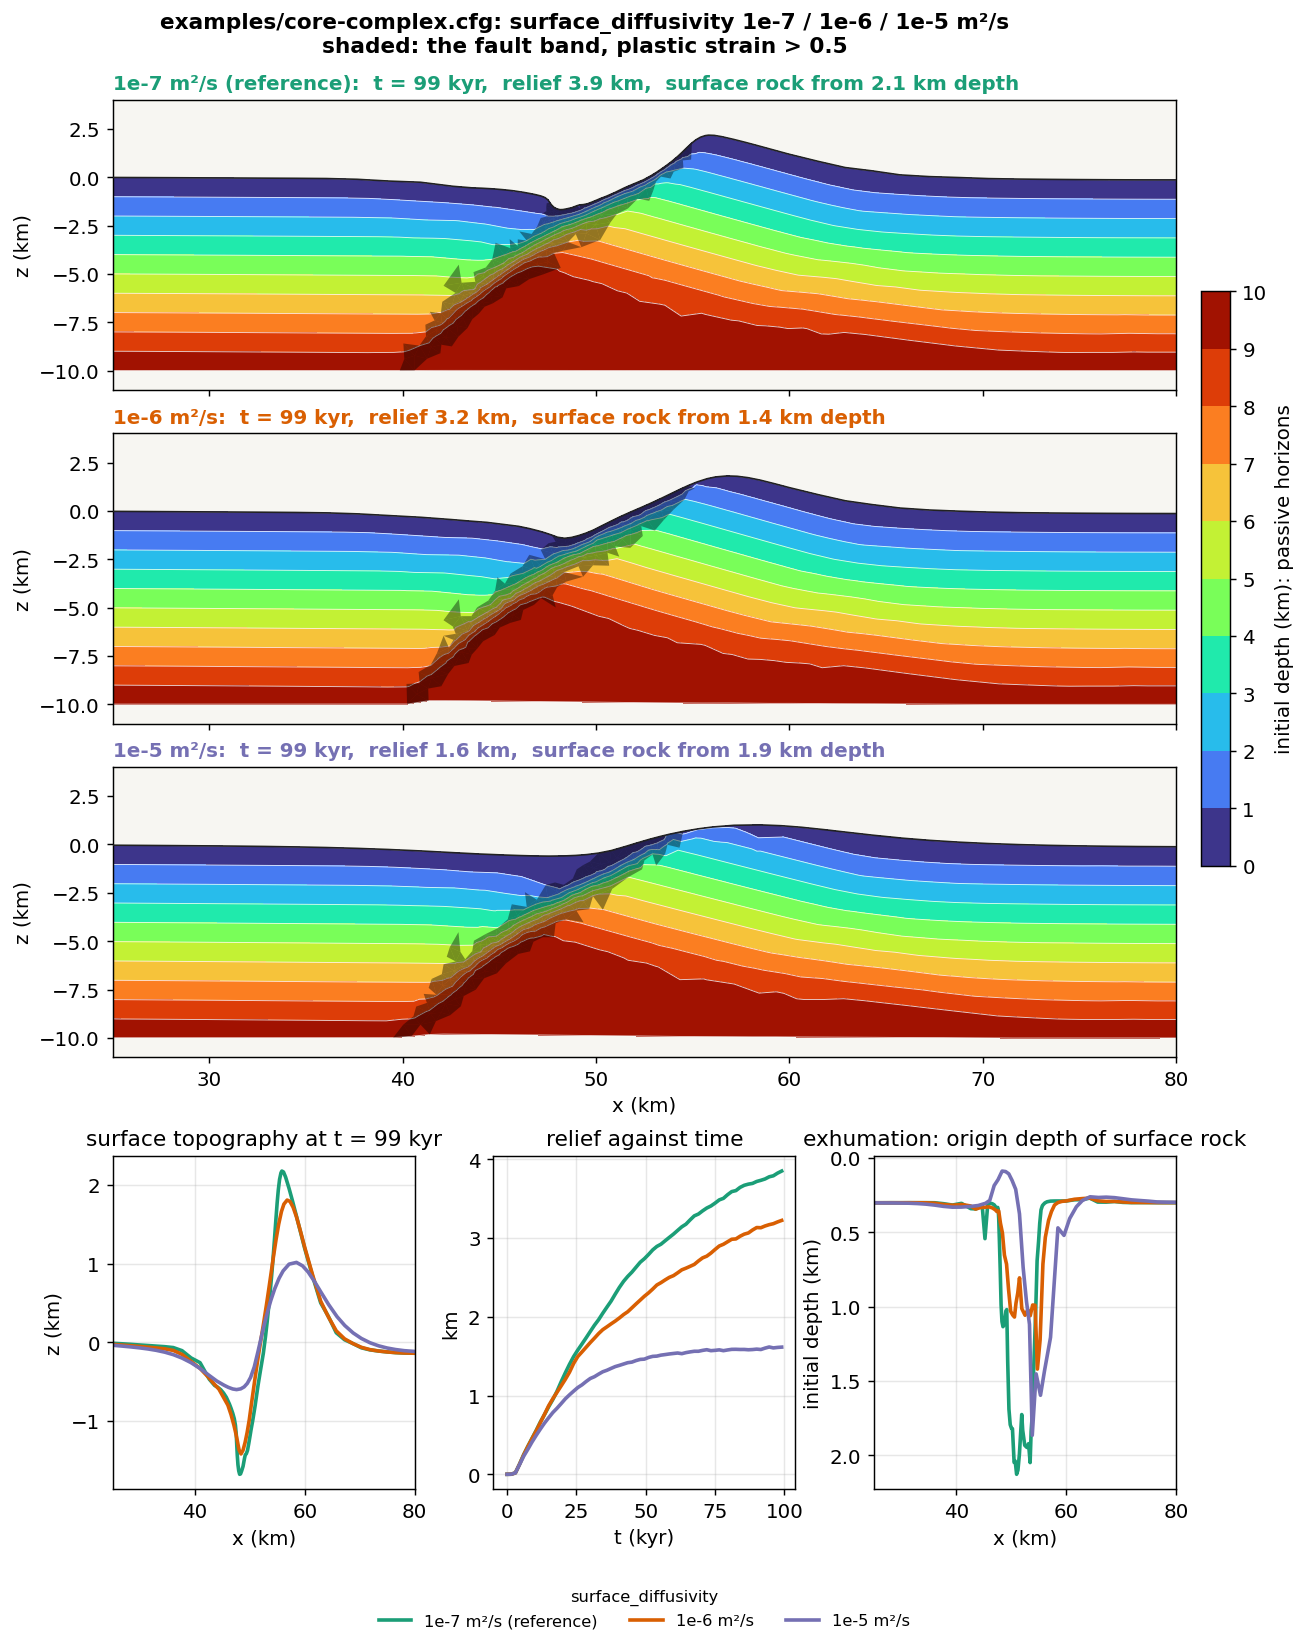
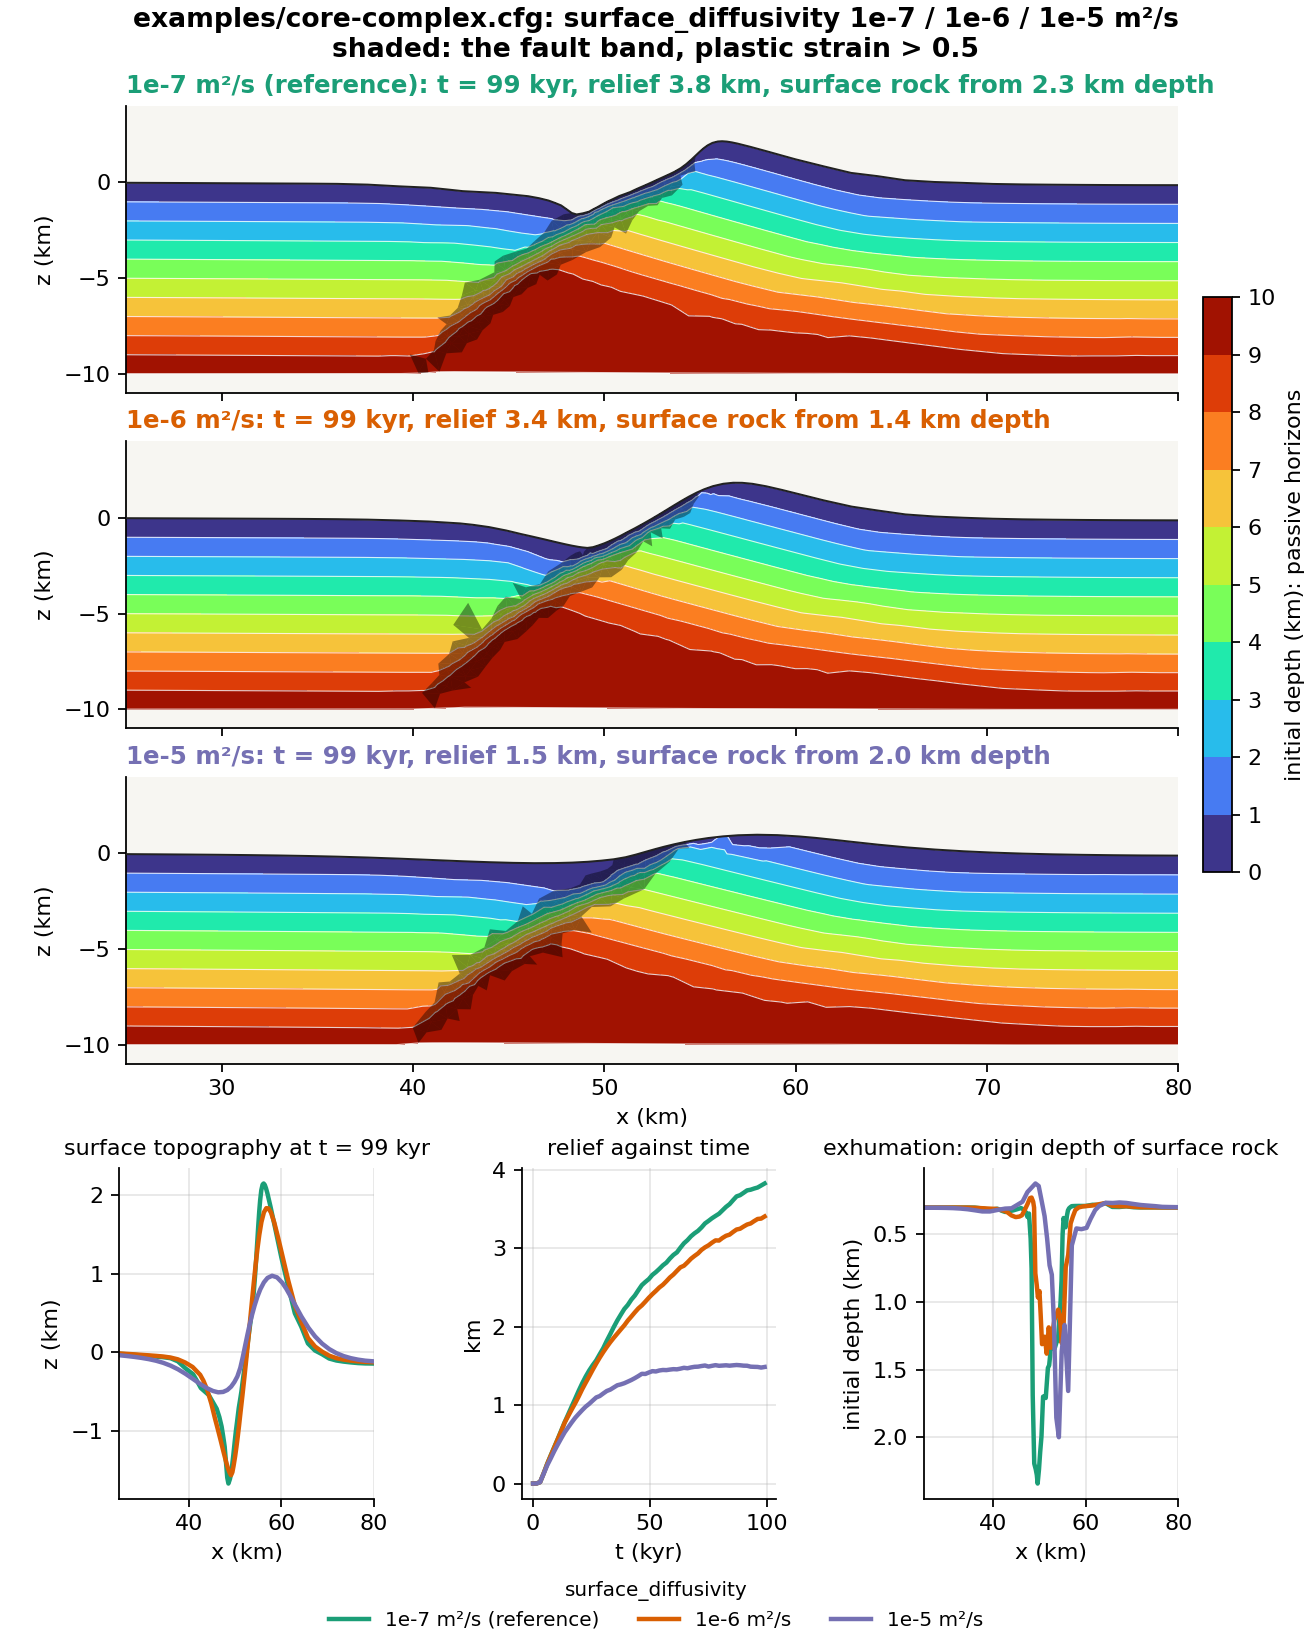
docs: Part 1 references, figures and numbers from current DES master
DES master since cce59ab5b decays surface plastic strain in every top
element (DynEarthSol ac7c12445, PR #110); before it, core-complex's one
material matched the default mattype_oceanic_crust and the decay never
ran. Fields drift slightly before the first remesh, which then builds a
different mesh, so the shipped Part 1 references no longer matched what
participants get.

- Rebuild the six Part 1 reference folders from master runs, with
  remesh.csv for every exercise run so the notebook shows remesh counts.
- Add src/make_figures.py, which draws the four Part 1 page figures from
  the package's runs with tutorial_tools' helpers; regenerate them.
- Update the page, notebook and README numbers. Exercise 2's floor-only
  run now costs 5 % more steps, not 60 %; coeff = 10 grows a hanging-wall
  splay; the Triangle build remeshes over 1100 times, almost all repeats
  at one surface element just under min_quality.
- remesh_events() reads solver.log / restart.log, the logs run.sh
  writes, since DES writes no .runlog; users' runs showed 0 remeshes.
- Re-export Tutorial.html and rebuild the zip.

Changed region(s): [[0.0, 0.0, 1.0, 0.9903], [0.2757, 0.8975, 0.3369, 0.9284], [0.8882, 0.8975, 0.9188, 0.9284]]

diff --git a/docs/tutorial/tectonics.md b/docs/tutorial/tectonics.md
@@ -335,10 +335,14 @@ Output goes to `result3.save.*` and `result3.info` in the working directory.
 
 Cost on a laptop: the stock 50 kyr run takes a few minutes. To 100 kyr the
 MMG build took 12 minutes on 6 threads while another run shared the machine,
-7.0 million steps, 24 remeshes, 720 to about 1400 elements. The Triangle build
-needs about the same number of steps but ends with about 2000 elements after
-some 140 remeshes. Remeshing is under 0.1 % of the wall time either way; the
-time step, not the mesh, is the cost.
+6.2 million steps, 23 remeshes, 720 to about 1300 elements. The Triangle build
+needs about the same number of steps and ends with about 1800 elements. It
+remeshes some 20 times for the usual reasons, but twice in the run a surface
+element at the fault scarp, x = 53 km, sits just below `min_quality` after
+each rebuild, so every quality
+check remeshes again, over 1100 times in all. Remeshing is still about 1 % of
+the wall time with Triangle and 0.03 % with MMG; the time step, not the mesh,
+is the cost.
 
 :::tip With and without MMG
 The runs shown below use the MMG build from the prerequisites. The same file
@@ -350,8 +354,9 @@ smallest `resolution × (smallest_size × mmg_remesh_defensive_tiny_ratio)^(1/2)
 3.2 km and 0.12 km here, and it is conservative, freezing elements that are
 not yielding, distorted or tiny so that each remesh touches mainly the fault
 band. Triangle rebuilds the whole mesh at the initial sizes. To 100 kyr the
-MMG run ends with about 1400 elements after 24 remeshes, the Triangle run
-with about 2000 after some 140.
+MMG run ends with about 1300 elements after 23 remeshes, the Triangle run
+with about 1800 after over 1100, nearly all of them repeats on a surface
+element at the fault scarp that a rebuild does not improve.
 
 The build is described in [Adaptive mesh refinement with MMG](./usingmmg.md).
 The full parameter list, with a one-line tuning rule for each, is in the
@@ -378,35 +383,35 @@ Open `result3.*.vtu` in ParaView. Fields to look at:
 
 The left column is where slip has accumulated and how the mesh follows it;
 the right column is where slip is happening now. They differ: at 50 kyr the
-strain rate shows a second, antithetic band under the footwall at x = 60–70
+strain rate shows a second, antithetic band under the footwall at x = 55–65
 km that never gains enough plastic strain to show on the left. The bottom
-row quantifies the rolling hinge: the fault band steepens to 50° while it
+row quantifies the rolling hinge: the fault band steepens to 49° while it
 breaks through, then rotates steadily to 35° by 100 kyr as relief grows to
-3.9 km.
+3.8 km.
 
 Things to look for as the run proceeds (the figure is the reference run):
 
-- **Breakthrough.** The seed fault cuts up to the surface within the first
-  10 kyr and the footwall starts to rise; the velocity arrows show the
+- **Breakthrough.** The seed fault cuts up to the surface at about 13 kyr
+  and the footwall starts to rise; the velocity arrows show the
   footwall moving up and to the right while the hanging wall slides left.
-- **Relief.** By 50 kyr the surface has a footwall crest of 1.3 km near
-  x = 54 km and a basin of 1.4 km near x = 50 km, 2.7 km of relief; by
-  100 kyr the crest is 2.2 km at x = 56 km and the relief 3.9 km.
+- **Relief.** By 50 kyr the surface has a footwall crest of 1.4 km near
+  x = 54 km and a basin of 1.2 km near x = 50 km, 2.6 km of relief; by
+  100 kyr the crest is 2.2 km at x = 56 km and the relief 3.8 km.
 - **The rolling hinge.** The fault rotates to a shallower dip as it is
-  exhumed, from about 46° at 25 kyr to 35° at 100 kyr; the band of high
+  exhumed, from about 47° at 25 kyr to 35° at 100 kyr; the band of high
   plastic strain curves from steep at depth to gentle near the surface, and
   its exhumed upper part drapes the footwall dome.
 - **The mesh.** After a remesh the elements along the fault are smaller than
   in the far field with MMG, and uniform with Triangle; the MMG run grows
-  from 720 to about 1400 elements over 100 kyr.
+  from 720 to about 1300 elements over 100 kyr.
 
 ### Exercise 1: change the surface diffusivity
 
 | Run | `surface_diffusivity` | What you should see at 100 kyr |
 |-----|-----------------------|-------------------------------|
-| Reference | `1e-7` | Sharp footwall crest 2.2 km high, basin 1.7 km deep, 3.9 km of relief |
-| Moderate | `1e-6` | The same structure a little smoothed: crest 1.8 km, basin 1.4 km, 3.2 km of relief |
-| Strong erosion | `1e-5` | Relief capped at 1.6 km from 40 kyr on; the crest is planed to 1 km and the basin filled to 0.6 km while the fault keeps slipping |
+| Reference | `1e-7` | Sharp footwall crest 2.2 km high, basin 1.7 km deep, 3.8 km of relief |
+| Moderate | `1e-6` | The same structure a little smoothed: crest 1.8 km, basin 1.6 km, 3.4 km of relief |
+| Strong erosion | `1e-5` | Relief capped at 1.5 km from about 50 kyr on; the crest is planed to 1 km and the basin filled to 0.5 km while the fault keeps slipping |
 
 ![Surface diffusivity 1e-7, 1e-6 and 1e-5 at 100 kyr: passive horizons of initial depth in 1 km bands with the fault band shaded, then the surface profiles, relief against time, and the initial depth of the rock now at the surface](./img/tectonics/core-complex-diffusivity.png)
 
@@ -415,21 +420,21 @@ position through remeshing in the `coord0` field, so contouring the initial
 depth on the present mesh shows where each layer of the original crust has
 gone. Read them together with the surface panels:
 
-- **The fault is the same in all three runs.** The band dips 42° at 50 kyr
-  and 35° at 100 kyr and reaches a plastic strain of 3.9 whatever the
-  diffusivity. Diffusion acts on the surface only.
-- **So is the exhumation.** Rock from 8 km depth has risen to 3.9 km below the
-  surface at x = 48 km in all three, the horizons under the dome are bent
-  the same way, and the rock exposed at the surface came from 1.4 to 2.1 km in
+- **The fault is the same in all three runs.** The band dips 41° to 42° at
+  50 kyr and 34° to 36° at 100 kyr and reaches a plastic strain of 3.7
+  whatever the diffusivity. Diffusion acts on the surface only.
+- **So is the exhumation.** Rock from 8 km depth has risen to about 4 km
+  depth at x = 48 km in all three, the horizons under the dome are bent
+  the same way, and the rock exposed at the surface came from 1.4 to 2.3 km in
   every run. The fault sets how far the footwall rises; erosion does not add
   to it here.
 - **What changes is the topography.** At 1e-5 m²/s the relief stops growing
-  at 40 kyr because the crest is planed as fast as the fault lifts it and
+  at about 50 kyr because the crest is planed as fast as the fault lifts it and
   the debris fills the basin. The same exhumation then shows as a low dome
   rather than a sharp crest.
 
 That is why relief alone is a poor measure of what a fault has done, and why
-the horizons are worth drawing. Each run took 5 to 12 minutes on 6 threads.
+the horizons are worth drawing. Each run took 4 to 12 minutes on 6 threads.
 
 ### Exercise 2: change how small the elements may get
 
@@ -449,10 +454,10 @@ and the floor allows.
 
 | Run | `smallest_size` | Smallest MMG element | What you should see |
 |-----|-----------------|----------------------|---------------------|
-| No refinement | `1` | 1.2 km | A diffuse band 3 km wide that never sharpens; the run takes a tenth of the time |
-| Stock | `0.01` | 0.12 km | A sharp fault, about 1400 elements; 12 min |
-| Very fine | `0.001` | 0.04 km | The same mesh as stock, since the target rather than the floor limits refinement; 60 % more steps for nothing |
-| Very fine, stronger target | `0.001` with `mmg_metric_refine_coeff = 10` | 0.04 km | Now the band refines: 1630 elements, half again as many in the band |
+| No refinement | `1` | 1.2 km | A diffuse band 3 km wide that never sharpens; the run takes an eighth of the time |
+| Stock | `0.01` | 0.12 km | A sharp fault, about 1300 elements; 12 min |
+| Very fine | `0.001` | 0.04 km | The same mesh as stock, since the target rather than the floor limits refinement; 5 % more steps for nothing |
+| Very fine, stronger target | `0.001` with `mmg_metric_refine_coeff = 10` | 0.04 km | Now the band refines: 1770 elements, 70 % more in the band, and a second fault splays into the hanging wall |
 
 ![smallest_size 1, the stock 0.01, 0.001, and 0.001 with a doubled refinement coefficient at 100 kyr: plastic strain on the mesh for each](./img/tectonics/core-complex-smallest-size.png)
 
@@ -460,26 +465,31 @@ All four rows were run. Going up to `smallest_size = 1` costs resolution:
 the fault still forms in the same place and the surface still domes, but
 the band cannot be narrower than the elements it runs through, so the strain
 is spread over a 3 km wide zone and the fault never sharpens. The time step
-is seven times longer, since it follows the smallest element, and the whole
-run takes a tenth of the time.
+is on average seven times longer, since it follows the smallest element, and
+the whole run takes an eighth of the time.
 
 Going down to `0.001` alone buys nothing. The smallest element in the stock
-run is 0.15 km, above the 0.12 km floor, so the floor was not what stopped
+run is 0.17 km, above the 0.12 km floor, so the floor was not what stopped
 the refinement; the target was. Lowering the floor further cannot refine the
 band, and what it does change is the tiny-element trigger: squeezed elements
 may now shrink to a third of the size before a remesh repairs them, so the
-time step falls and the run needs 60 % more steps for the same result.
+time step can fall further. Here that costs only 5 % more steps, but it is a
+cost with nothing in return.
 
 Raising the target as well, `mmg_metric_refine_coeff = 10`, is what makes
-the lower floor useful. The band now holds 580 elements instead of 350, at a
-median edge of 0.29 km instead of 0.38, and the smallest element reaches
-0.10 km, still above the 0.04 km floor. The fault is drawn more sharply and
-the maximum plastic strain is a little higher, 4.1 against 3.9.
+the lower floor useful. The band now holds 560 elements instead of the stock
+run's 330, at a median edge of 0.29 km instead of 0.43, and the smallest element reaches
+0.12 km, still above the 0.04 km floor. The fault is drawn more sharply and
+the maximum plastic strain is a little higher, 4.1 against 3.7. The finer
+band also lets a second fault split off the main one into the hanging wall
+from about 50 kyr; by 100 kyr it reaches the surface at x = 45 km and opens
+a second, smaller basin there.
 
 ![The same four runs: final surface topography, then element count and maximum plastic strain against time, and the elements of each run at 100 kyr split by plastic strain](./img/tectonics/core-complex-smallest-size-series.png)
 
-The surface itself hardly notices: the three refined runs end with the same crest and
-basin to within 0.2 km, and only the unrefined run is lower and broader. The
+Away from that splay the surface hardly notices: the three refined runs end
+with the same crest and basin to within 0.2 km, and only the unrefined run is
+lower and broader. The
 lesson is that the two parameters work as a pair: the target asks for refinement
 where plastic strain accumulates, the floor caps how far it may go, and
 moving one without the other changes the cost of the run more than its
